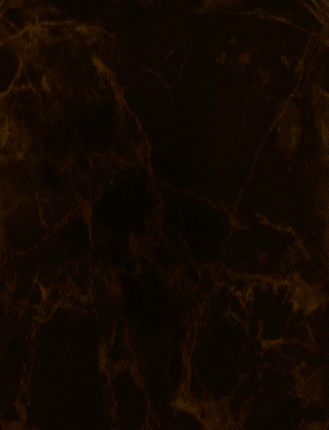
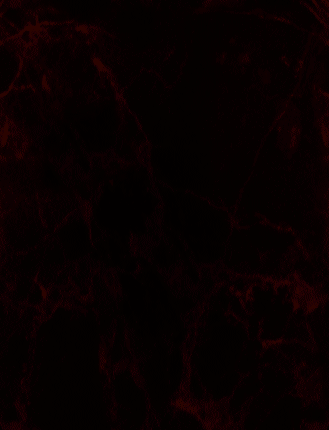
new button design + small css changes

diff --git a/public/css/theme.css b/public/css/theme.css
@@ -2,15 +2,13 @@
 
 body {
     background-color: #232427;
-    background-image: url(/img/bg2.png);
-    /* background-image: url(/img/bg.png); */
+    background-image: url(/img/bg.png);
     font-family: 'Nunito', sans-serif;
 }
 
 * {
     color: rgb(215, 197, 182);
     --bs-secondary-color: rgba(148, 66, 0, 0.75);
-    /* --special-text-color: rgb(215, 197, 182); */
     --special-text-color: #dd4a29;
     --footer-text-color: #777;
 
@@ -77,24 +75,10 @@ a:hover {
 
 .bg-keeper {
     background: url(../img/bg-gray.png) repeat;
-    /* filter: blur(0.5); */
-}
-
-.bg-keeper-2 {
-    background: url(../img/bg-gold.png) repeat;
 }
 
 .bd-keeper {
-    box-shadow:
-        0 0 0 2px #362c2c,
-        0 0 0 3px #232427,
-        rgba(0, 0, 0, 0.3) 0px 25px 50px -12px;
-}
-
-.bd-keeper-2 {
-    box-shadow:
-        0 0 0 1px #56452c,
-        0 0 0 2px #603500;
+    border: 3px solid rgba(100, 100, 100, 0.2);
 }
 
 /*/////////////////////////////////////////////////////////////////////////////////////////////////////////////////*/
@@ -382,33 +366,6 @@ input:focus {
     box-shadow: none;
 }
 
-.btn-dk {
-    font-size: 18px;
-    color: rgb(215, 197, 182);
-    font-family: 'Cinzel', serif;
-
-    padding: 10px;
-
-    background: url(../img/bg-gold.png) repeat;
-    border: 1px solid rgb(50 36 24);
-
-    filter: brightness(1.5);
-    /* filter: brightness(1.7); */
-}
-
-.btn-dk:hover {
-    border: 1px solid rgb(79, 57, 38);
-    filter: brightness(1.75);
-    /* filter: brightness(2); */
-
-    color: var(--bs-btn-hover-color);
-    text-decoration: none;
-}
-
-.btn-dk-gray {
-    background: url(../img/bg-gray.png) repeat;
-}
-
 /*/////////////////////////////////////////////////////////////////////////////////////////////////////////////////*/
 /*/////////////////////////////////////////////////////////////////////////////////////////////////////////////////*/
 /*/////////////////////////////////////////////////////////////////////////////////////////////////////////////////*/
@@ -429,4 +386,30 @@ footer {
     text-align: center;
     color: var(--footer-text-color);
     padding-bottom: 15px;
+}
+
+/*/////////////////////////////////////////////////////////////////////////////////////////////////////////////////*/
+/*/////////////////////////////////////////////////////////////////////////////////////////////////////////////////*/
+/*/////////////////////////////////////////////////////////////////////////////////////////////////////////////////*/
+
+.btn-medieval {
+    border-radius: 0px;
+    background-color: #1c1c1c;
+    color: rgb(238, 231, 224);
+    box-shadow: inset 0 0 5px rgba(247, 219, 219, 0.5);
+    background: url(../img/bg-button-red.png) repeat;
+    text-shadow: 2px 2px 4px black;
+    font-family: 'Cinzel', serif;
+}
+
+.btn-medieval:hover {
+    background-color: inherit;
+    filter: brightness(1.3);
+    color: rgb(238, 231, 224) !important;
+    text-decoration: none;
+}
+
+.btn-medieval-gray {
+    box-shadow: inset 0 0 7px rgba(255, 241, 241, 0.25);
+    background: url(../img/bg-button.png) repeat;
 }
